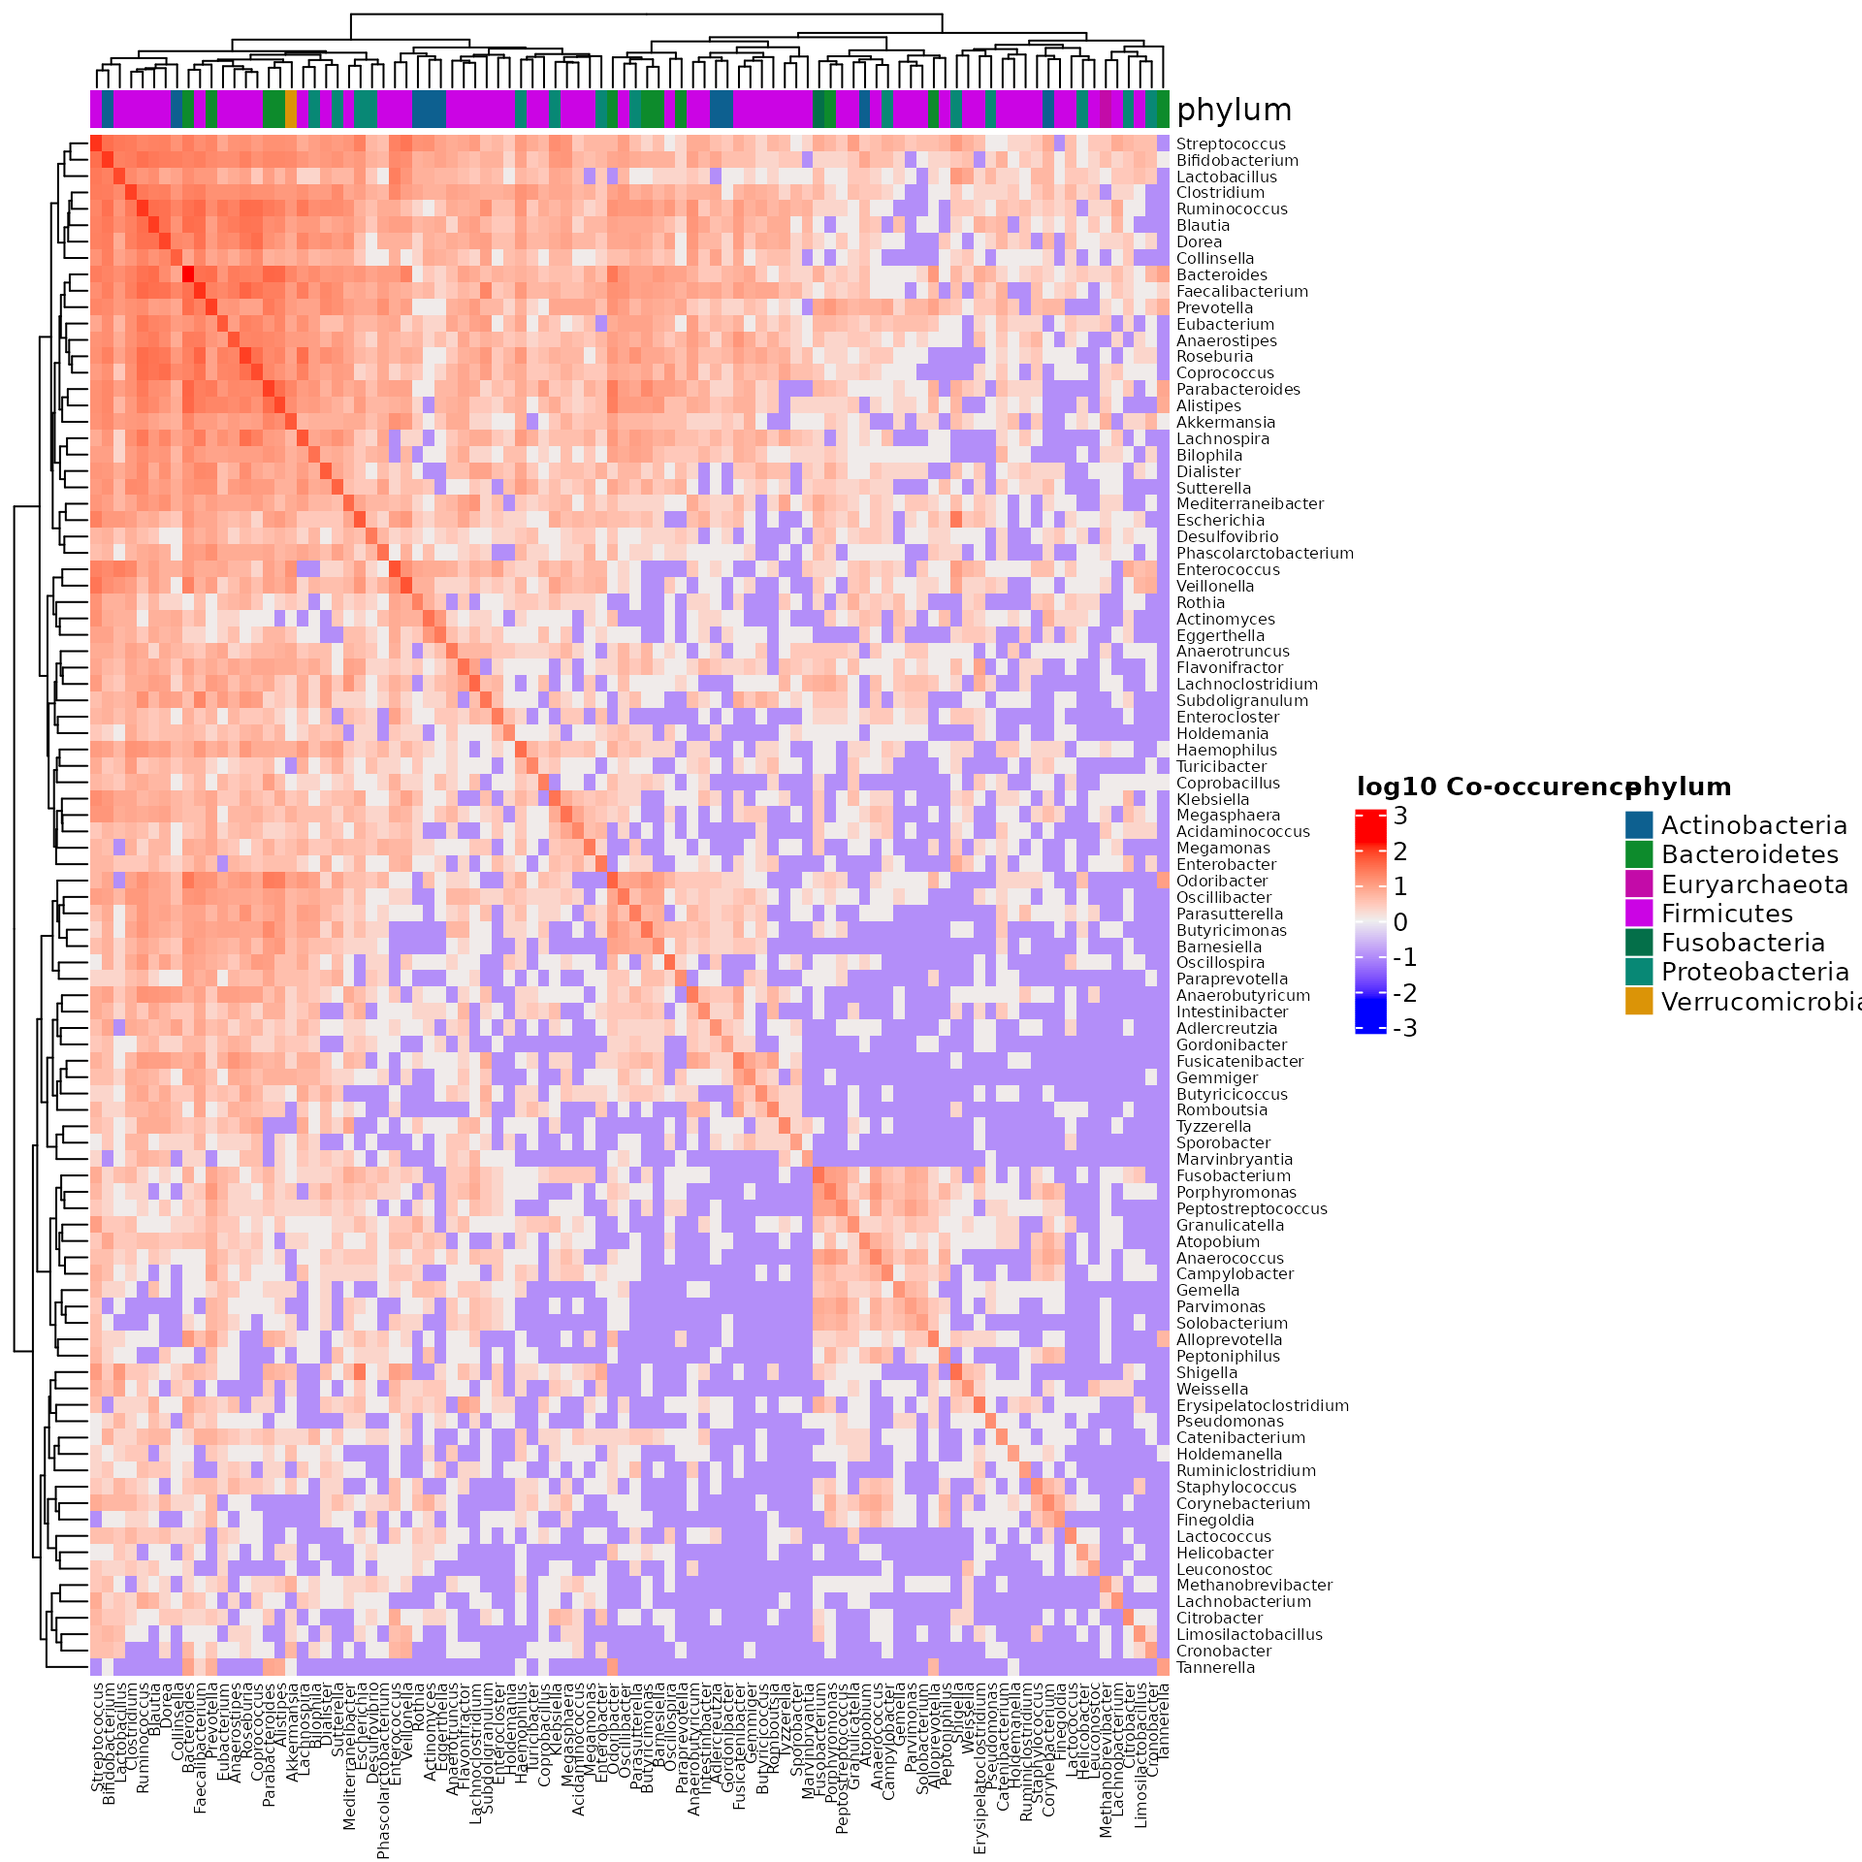
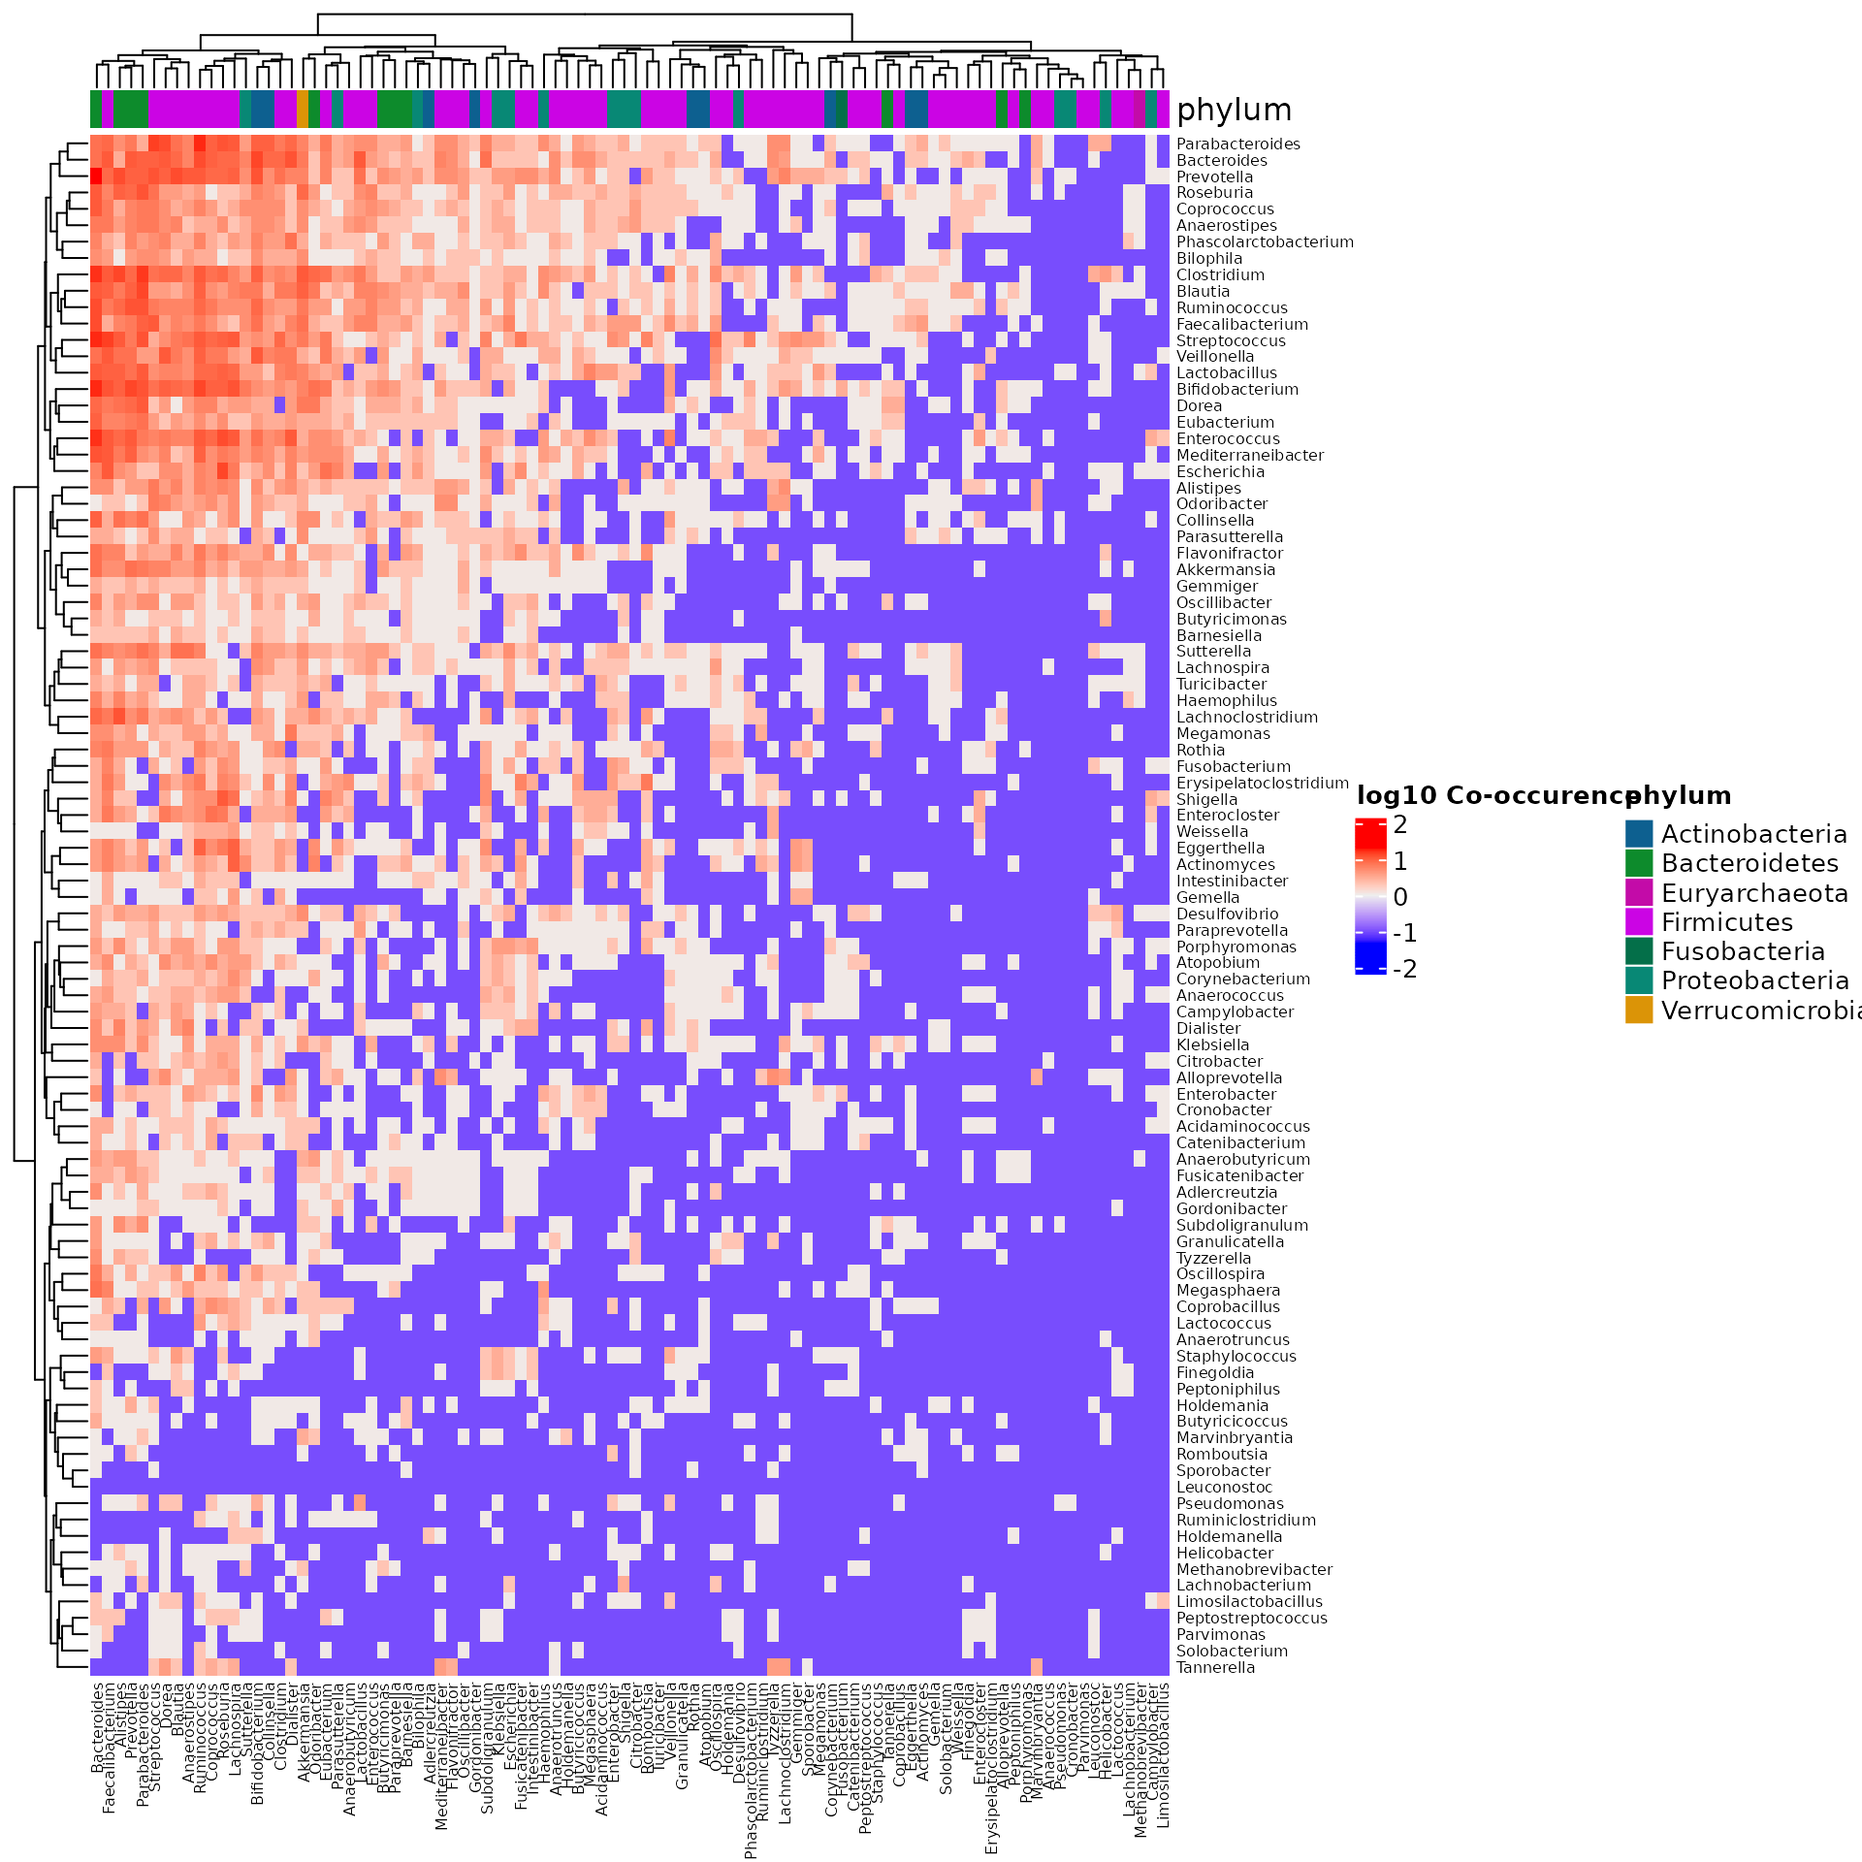
Deploying to gh-pages from  @ b35ecab144457a05e10438733e3b6abcc4c2ad67 🚀

diff --git a/articles/BugSigDBStats.html b/articles/BugSigDBStats.html
@@ -87,7 +87,7 @@
 <p>Get bulk export from bugsigdb.org:</p>
 <div class="sourceCode" id="cb2"><pre class="downlit sourceCode r">
 <code class="sourceCode R"><span class="va">full.dat</span> <span class="op">&lt;-</span> <span class="fu">bugsigdbr</span><span class="fu">::</span><span class="fu"><a href="https://rdrr.io/pkg/bugsigdbr/man/importBugSigDB.html">importBugSigDB</a></span><span class="op">(</span><span class="op">)</span></code></pre></div>
-<pre><code>## Using cached version from 2022-01-22 05:09:49</code></pre>
+<pre><code>## Using cached version from 2022-01-22 21:56:06</code></pre>
 <div class="sourceCode" id="cb4"><pre class="downlit sourceCode r">
 <code class="sourceCode R"><span class="fu"><a href="https://rdrr.io/r/base/dim.html">dim</a></span><span class="op">(</span><span class="va">full.dat</span><span class="op">)</span></code></pre></div>
 <pre><code>## [1] 2123   48</code></pre>
@@ -902,16 +902,10 @@
 <pre><code>## Loading required namespace: safe</code></pre>
 <p><img src="BugSigDBStats_files/figure-html/coocc-1.png" width="960"></p>
 <div class="sourceCode" id="cb76"><pre class="downlit sourceCode r">
-<code class="sourceCode R"><span class="fu"><a href="../reference/microbeHeatmap.html">microbeHeatmap</a></span><span class="op">(</span><span class="va">dat.feces</span>, tax.level <span class="op">=</span> <span class="st">"genus"</span><span class="op">)</span></code></pre></div>
-<p><img src="BugSigDBStats_files/figure-html/coocc-2.png" width="960"></p>
-<div class="sourceCode" id="cb77"><pre class="downlit sourceCode r">
 <code class="sourceCode R"><span class="va">antag.mat</span> <span class="op">&lt;-</span> <span class="fu"><a href="../reference/microbeHeatmap.html">microbeHeatmap</a></span><span class="op">(</span><span class="va">dat.feces</span>, tax.level <span class="op">=</span> <span class="st">"genus"</span>, antagonistic <span class="op">=</span> <span class="cn">TRUE</span><span class="op">)</span></code></pre></div>
-<p><img src="BugSigDBStats_files/figure-html/coocc-3.png" width="960"></p>
-<div class="sourceCode" id="cb78"><pre class="downlit sourceCode r">
-<code class="sourceCode R"><span class="fu"><a href="../reference/microbeHeatmap.html">microbeHeatmap</a></span><span class="op">(</span><span class="va">dat.feces</span>, tax.level <span class="op">=</span> <span class="st">"genus"</span>, antagonistic <span class="op">=</span> <span class="cn">TRUE</span><span class="op">)</span></code></pre></div>
-<p><img src="BugSigDBStats_files/figure-html/coocc-4.png" width="960"></p>
+<p><img src="BugSigDBStats_files/figure-html/coocc-2.png" width="960"></p>
 <p>Get the top 20 genera most frequently reported as differentially abundant:</p>
-<div class="sourceCode" id="cb79"><pre class="downlit sourceCode r">
+<div class="sourceCode" id="cb77"><pre class="downlit sourceCode r">
 <code class="sourceCode R"><span class="va">sigs.feces</span> <span class="op">&lt;-</span> <span class="fu"><a href="https://rdrr.io/pkg/bugsigdbr/man/getSignatures.html">getSignatures</a></span><span class="op">(</span><span class="va">dat.feces</span>, tax.id.type <span class="op">=</span> <span class="st">"taxname"</span>, 
                             tax.level <span class="op">=</span> <span class="st">"genus"</span>, exact.tax.level <span class="op">=</span> <span class="cn">FALSE</span><span class="op">)</span> 
 <span class="va">top20</span> <span class="op">&lt;-</span> <span class="fu"><a href="https://rdrr.io/r/base/sort.html">sort</a></span><span class="op">(</span><span class="fu"><a href="https://rdrr.io/r/base/table.html">table</a></span><span class="op">(</span><span class="fu"><a href="https://rdrr.io/r/base/unlist.html">unlist</a></span><span class="op">(</span><span class="va">sigs.feces</span><span class="op">)</span><span class="op">)</span>, decreasing <span class="op">=</span> <span class="cn">TRUE</span><span class="op">)</span><span class="op">[</span><span class="fl">1</span><span class="op">:</span><span class="fl">20</span><span class="op">]</span>
@@ -928,17 +922,17 @@
 ##      Akkermansia     Anaerostipes      Eubacterium      Escherichia 
 ##               68               67               67               64</code></pre>
 <p>Subset heatmaps to the top 20 genera most frequently reported as differentially abundant:</p>
-<div class="sourceCode" id="cb81"><pre class="downlit sourceCode r">
+<div class="sourceCode" id="cb79"><pre class="downlit sourceCode r">
 <code class="sourceCode R"><span class="fu"><a href="https://rdrr.io/r/base/all.html">all</a></span><span class="op">(</span><span class="fu"><a href="https://rdrr.io/r/base/names.html">names</a></span><span class="op">(</span><span class="va">top20</span><span class="op">)</span> <span class="op">%in%</span> <span class="fu"><a href="https://tibble.tidyverse.org/reference/rownames.html">rownames</a></span><span class="op">(</span><span class="va">cooc.mat</span><span class="op">)</span><span class="op">)</span></code></pre></div>
 <pre><code>## [1] TRUE</code></pre>
-<div class="sourceCode" id="cb83"><pre class="downlit sourceCode r">
+<div class="sourceCode" id="cb81"><pre class="downlit sourceCode r">
 <code class="sourceCode R"><span class="va">cooc.mat</span> <span class="op">&lt;-</span> <span class="va">cooc.mat</span><span class="op">[</span><span class="fu"><a href="https://rdrr.io/r/base/names.html">names</a></span><span class="op">(</span><span class="va">top20</span><span class="op">)</span>, <span class="fu"><a href="https://rdrr.io/r/base/names.html">names</a></span><span class="op">(</span><span class="va">top20</span><span class="op">)</span><span class="op">]</span>
 <span class="fu"><a href="https://rdrr.io/r/base/all.html">all</a></span><span class="op">(</span><span class="fu"><a href="https://rdrr.io/r/base/names.html">names</a></span><span class="op">(</span><span class="va">top20</span><span class="op">)</span> <span class="op">%in%</span> <span class="fu"><a href="https://tibble.tidyverse.org/reference/rownames.html">rownames</a></span><span class="op">(</span><span class="va">antag.mat</span><span class="op">)</span><span class="op">)</span></code></pre></div>
 <pre><code>## [1] TRUE</code></pre>
-<div class="sourceCode" id="cb85"><pre class="downlit sourceCode r">
+<div class="sourceCode" id="cb83"><pre class="downlit sourceCode r">
 <code class="sourceCode R"><span class="va">antag.mat</span> <span class="op">&lt;-</span> <span class="va">antag.mat</span><span class="op">[</span><span class="fu"><a href="https://rdrr.io/r/base/names.html">names</a></span><span class="op">(</span><span class="va">top20</span><span class="op">)</span>, <span class="fu"><a href="https://rdrr.io/r/base/names.html">names</a></span><span class="op">(</span><span class="va">top20</span><span class="op">)</span><span class="op">]</span></code></pre></div>
 <p>Distinguish by direction of abundance change (increased / decreased):</p>
-<div class="sourceCode" id="cb86"><pre class="downlit sourceCode r">
+<div class="sourceCode" id="cb84"><pre class="downlit sourceCode r">
 <code class="sourceCode R"><span class="co"># increased</span>
 <span class="va">sub.dat.feces</span> <span class="op">&lt;-</span> <span class="fu"><a href="https://rdrr.io/r/base/subset.html">subset</a></span><span class="op">(</span><span class="va">dat.feces</span>, <span class="va">`Abundance in Group 1`</span> <span class="op">==</span> <span class="st">"increased"</span><span class="op">)</span>
 <span class="va">sigs.feces.up</span> <span class="op">&lt;-</span> <span class="fu"><a href="https://rdrr.io/pkg/bugsigdbr/man/getSignatures.html">getSignatures</a></span><span class="op">(</span><span class="va">sub.dat.feces</span>, tax.id.type <span class="op">=</span> <span class="st">"taxname"</span>, 
@@ -956,7 +950,7 @@
 ##               24               30               64               50 
 ##      Akkermansia     Anaerostipes      Eubacterium      Escherichia 
 ##               36               23               28               41</code></pre>
-<div class="sourceCode" id="cb88"><pre class="downlit sourceCode r">
+<div class="sourceCode" id="cb86"><pre class="downlit sourceCode r">
 <code class="sourceCode R"><span class="co"># decreased</span>
 <span class="va">sub.dat.feces</span> <span class="op">&lt;-</span> <span class="fu"><a href="https://rdrr.io/r/base/subset.html">subset</a></span><span class="op">(</span><span class="va">dat.feces</span>, <span class="va">`Abundance in Group 1`</span> <span class="op">==</span> <span class="st">"decreased"</span><span class="op">)</span>
 <span class="va">sigs.feces.down</span> <span class="op">&lt;-</span> <span class="fu"><a href="https://rdrr.io/pkg/bugsigdbr/man/getSignatures.html">getSignatures</a></span><span class="op">(</span><span class="va">sub.dat.feces</span>, tax.id.type <span class="op">=</span> <span class="st">"taxname"</span>, 
@@ -975,7 +969,7 @@
 ##      Akkermansia     Anaerostipes      Eubacterium      Escherichia 
 ##               28               42               37               21</code></pre>
 <p>Plot the heatmap</p>
-<div class="sourceCode" id="cb90"><pre class="downlit sourceCode r">
+<div class="sourceCode" id="cb88"><pre class="downlit sourceCode r">
 <code class="sourceCode R"><span class="co"># annotation</span>
 <span class="va">mat</span> <span class="op">&lt;-</span> <span class="fu"><a href="https://rdrr.io/r/base/matrix.html">matrix</a></span><span class="op">(</span>nc <span class="op">=</span> <span class="fl">2</span>, <span class="fu"><a href="https://rdrr.io/r/base/cbind.html">cbind</a></span><span class="op">(</span><span class="va">top20.up</span>, <span class="va">top20.down</span><span class="op">)</span><span class="op">)</span>
 <span class="va">bp</span> <span class="op">&lt;-</span> <span class="fu">ComplexHeatmap</span><span class="fu">::</span><span class="fu"><a href="https://rdrr.io/pkg/ComplexHeatmap/man/anno_barplot.html">anno_barplot</a></span><span class="op">(</span><span class="va">mat</span>, gp <span class="op">=</span> <span class="fu">gpar</span><span class="op">(</span>fill <span class="op">=</span> <span class="fu"><a href="https://rdrr.io/r/base/c.html">c</a></span><span class="op">(</span><span class="st">"#D55E00"</span>, <span class="st">"#0072B2"</span><span class="op">)</span>,
@@ -1062,15 +1056,15 @@
 <div id="jaccard-index" class="section level3">
 <h3 class="hasAnchor">
 <a href="#jaccard-index" class="anchor"></a>Jaccard index</h3>
-<p>The <code>calcPairwiseOverlaps</code> function works quickly on all of bugsigdb currently, but <code>makeDist</code> is slow and surely could be improved for efficiency. For now, use only stomach samples:</p>
-<div class="sourceCode" id="cb91"><pre class="downlit sourceCode r">
+<p>Inspect signature similarity for signatures from stomach samples based on Jaccard index:</p>
+<div class="sourceCode" id="cb89"><pre class="downlit sourceCode r">
 <code class="sourceCode R"><span class="va">stomachsub</span> <span class="op">&lt;-</span> <span class="fu"><a href="https://rdrr.io/r/base/subset.html">subset</a></span><span class="op">(</span><span class="va">dat</span>, <span class="va">`Body site`</span> <span class="op">==</span> <span class="st">"stomach"</span><span class="op">)</span>
 <span class="va">sigsub</span> <span class="op">&lt;-</span> <span class="fu">bugsigdbr</span><span class="fu">::</span><span class="fu"><a href="https://rdrr.io/pkg/bugsigdbr/man/getSignatures.html">getSignatures</a></span><span class="op">(</span><span class="va">stomachsub</span><span class="op">)</span>
-<span class="va">paircomp</span> <span class="op">&lt;-</span> <span class="fu"><a href="../reference/calcPairwiseOverlaps.html">calcPairwiseOverlaps</a></span><span class="op">(</span><span class="va">sigsub</span><span class="op">)</span>
-<span class="va">jdist</span> <span class="op">&lt;-</span> <span class="fu"><a href="../reference/makeDist.html">makeDist</a></span><span class="op">(</span><span class="va">paircomp</span>, <span class="st">"jaccard"</span>, <span class="fu"><a href="https://rdrr.io/r/base/names.html">names</a></span><span class="op">(</span><span class="va">sigsub</span><span class="op">)</span><span class="op">)</span></code></pre></div>
+<span class="va">pair.jsim</span> <span class="op">&lt;-</span> <span class="fu"><a href="../reference/calcJaccardSimilarity.html">calcJaccardSimilarity</a></span><span class="op">(</span><span class="va">sigsub</span><span class="op">)</span></code></pre></div>
 <p>Create a dendrogram of Jaccard dissimilarities (1.0 has no overlap, 0.0 are identical signatures).</p>
-<div class="sourceCode" id="cb92"><pre class="downlit sourceCode r">
-<code class="sourceCode R"><span class="fu"><a href="https://rdrr.io/r/graphics/plot.default.html">plot</a></span><span class="op">(</span><span class="fu"><a href="https://rdrr.io/r/stats/hclust.html">hclust</a></span><span class="op">(</span><span class="va">jdist</span><span class="op">)</span><span class="op">)</span></code></pre></div>
+<div class="sourceCode" id="cb90"><pre class="downlit sourceCode r">
+<code class="sourceCode R"><span class="va">jdist</span> <span class="op">&lt;-</span> <span class="fu"><a href="https://rdrr.io/r/stats/dist.html">as.dist</a></span><span class="op">(</span><span class="fl">1</span> <span class="op">-</span> <span class="va">pair.jsim</span><span class="op">)</span>
+<span class="fu"><a href="https://rdrr.io/r/graphics/plot.default.html">plot</a></span><span class="op">(</span><span class="fu"><a href="https://rdrr.io/r/stats/hclust.html">hclust</a></span><span class="op">(</span><span class="va">jdist</span><span class="op">)</span><span class="op">)</span></code></pre></div>
 <p><img src="BugSigDBStats_files/figure-html/unnamed-chunk-26-1.png" width="768"></p>
 </div>
 </div>
